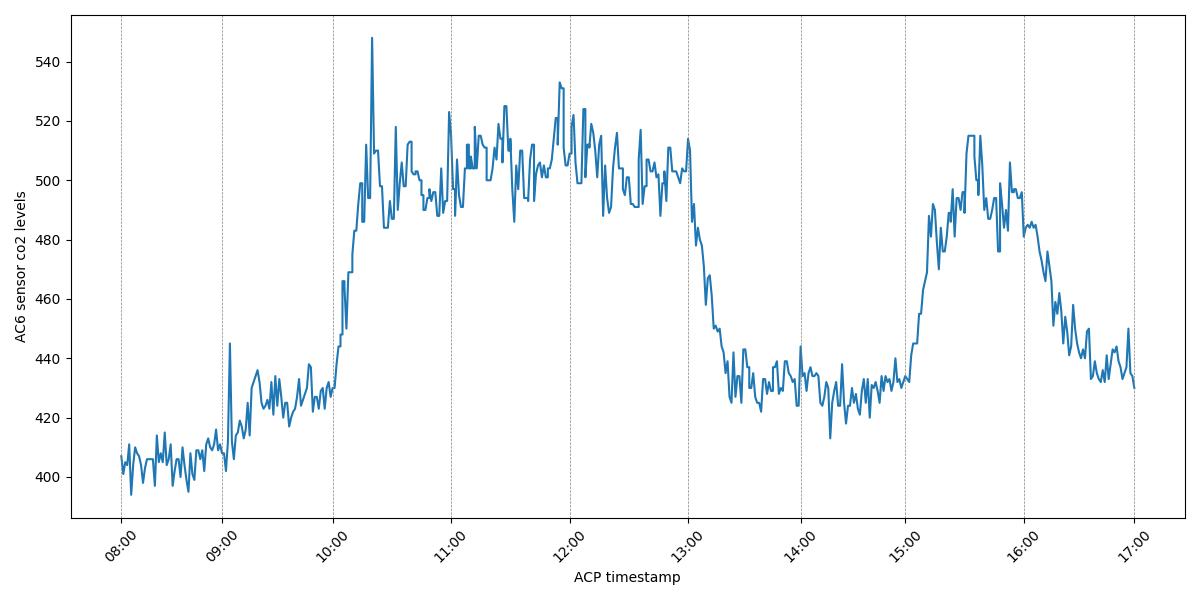
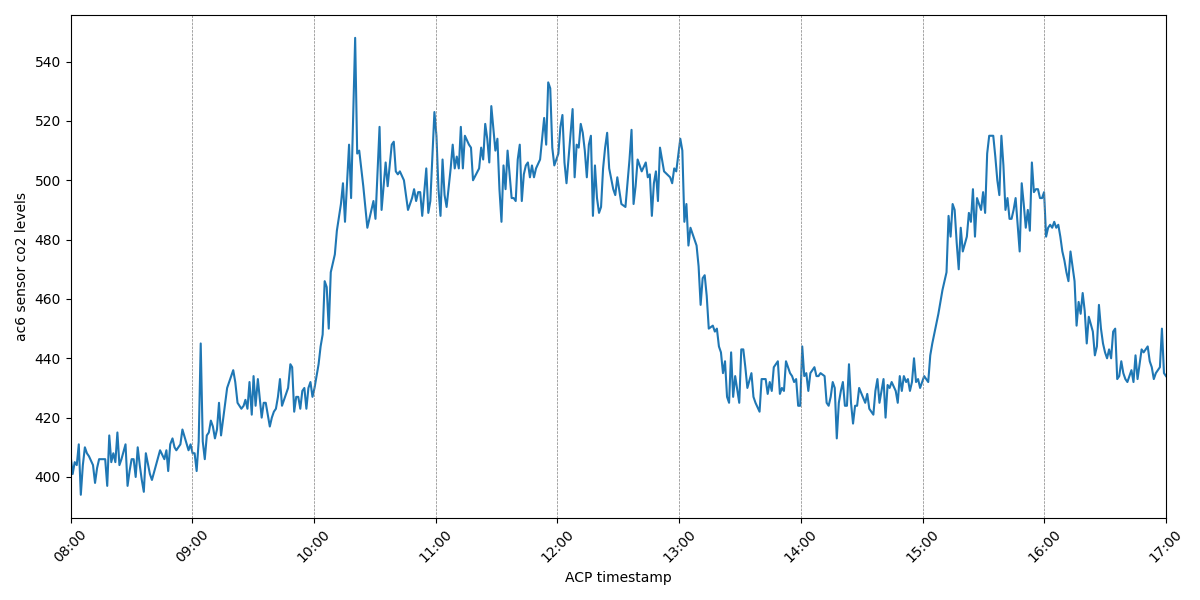
add late and seat events + plots

diff --git a/discoveryPhase/co2Plotter.py b/discoveryPhase/co2Plotter.py
@@ -4,41 +4,47 @@ import matplotlib.pyplot as plt
 import pandas as pd
 import numpy as np
 
+from faceEvent import getEvents
+
 def getXYAndLabels(sensor, day):
-    with open(f'jan2024SensorSample/elsys-co2-058{sensor}/01/elsys-co2-058{sensor}_2024-01-{day}.txt', 'r') as file:
+    with open(f'jan2024SensorSample/elsys-co2-{sensor}/01/elsys-co2-{sensor}_2024-01-{day}.txt', 'r') as file:
         ac6Data = [json.loads(dataLine) for dataLine in file]
     ac6DataFrame = pd.DataFrame(ac6Data)
-    payloads = np.array(ac6DataFrame['payload_cooked'])
-    missing_indecies = []
-    co2 = []
-    for i, payload in enumerate(payloads):
-        try:
-            co2.append(payload['co2'])
-        except KeyError:
-            if len(co2) > 0:
-                co2.append(co2[-1])
-            else:
-                co2.append(0)
-            missing_indecies.append(i)
-    co2 = np.array(co2)
+    ac6DataFrame['acp_ts'] = pd.to_numeric(ac6DataFrame['acp_ts'])
+    ac6DataFrameFiltered = ac6DataFrame[ac6DataFrame['payload_cooked'].apply(lambda x: 'co2' in x)]
+    ac6DataFrameFiltered.reset_index(drop=True, inplace=True)
+    ac6DataFrameTsBound = ac6DataFrameFiltered[(ac6DataFrameFiltered['acp_ts'] % 86400 >= 11*3600) & (ac6DataFrameFiltered['acp_ts'] % 86400 <= 12*3600)]
+    ac6DataFrameTsBound.reset_index(drop=True, inplace=True)
 
-    timeStamps = np.array(ac6DataFrame["acp_ts"])
-    hourMinuteStrings = np.array([datetime.fromtimestamp(float(ts)).strftime("%H:%M") for ts in timeStamps])
-    mask = (hourMinuteStrings >= "08:00") & (hourMinuteStrings <= "17:00")
-    boundedco2 = co2[mask]
-    boundedHourMinuteStrings = hourMinuteStrings[mask]
+    timestamps = np.array(pd.to_numeric(ac6DataFrameTsBound["acp_ts"]))
+    co2 = np.array([payload['co2'] for payload in ac6DataFrameTsBound['payload_cooked']])
+    labels = [f"11:{i*10:02}" for i in range(7)]
+    return  timestamps, co2, labels
 
-    labels = [f"{i:02}:00" for i in range(8, 18)]
-    return  boundedHourMinuteStrings, boundedco2, labels
-
-def plotData():
-    x, y, labels = getXYAndLabels('ac6', '24')
+def plotData(sensor, day, events = pd.DataFrame(), title = ''):
+    x, y, labels = getXYAndLabels(sensor, day)
     plt.figure(figsize=(12, 6))
     plt.plot(x, y)
-    plt.xticks(labels, rotation=45)
-    for label in labels:
-        plt.axvline(x=label, color='grey', linestyle='--', linewidth=0.5)
+    labelXValues = np.linspace(x[0], x[-1], 7)
+    plt.xticks(labelXValues, labels, rotation=45)
+    for labelx in labelXValues:
+        plt.axvline(x=labelx, color='grey', linestyle='--', linewidth=0.5)
+    for _, event in events.iterrows():
+        event_color = 'lime' if event['seatEvent'] == 'Appear' else 'red'
+        plt.axvline(x=event['acp_ts'], color=event_color, linestyle='--', label='late arrival', linewidth=1)
+
+    plt.xlim(x[0], x[-1])
     plt.xlabel('ACP timestamp')
-    plt.ylabel('AC6 sensor co2 levels')
+    plt.ylabel(f'{sensor} sensor co2 levels')
+    plt.title(title)
     plt.tight_layout()
-    plt.savefig('discoveryphase/plots/ac6-co2-24plot.png', format='png')
+    plt.savefig(f'discoveryphase/plots/{sensor}-co2-{day}11-12plot.png', format='png')
+
+def main():
+    events = pd.DataFrame(getEvents(1706094300, 1706097300, ['RE1', 'RE2', 'RF1', 'RF2', 'RD1', 'RD2']))
+    print(events)
+    title = 'co2 at ae7 with seatEvents from RE1, RE2, RF1, RF2, RD1, RD2 marked'
+    plotData('058b14', '24', events, title)
+
+if __name__ == '__main__':
+    main()

diff --git a/discoveryPhase/faceEvent.py b/discoveryPhase/faceEvent.py
@@ -1,0 +1,42 @@
+import json
+from enum import Enum
+import pandas as pd
+
+class seatEvent(Enum):
+    Appear = 'Appear'
+    Disappear = 'Disappear'
+
+def main():
+    print(getEvents(1706094300, 1706097300, ['MG4', 'MG5', 'MF4', 'MF5']))
+
+def getEvents(startTime: float, endTime: float, seats: list[str] = []):
+    '''
+        hardcoded date and time period
+
+        script which measures any change in seat occupancy given a selection of seats and time boundaries
+        gives timestamps for each event
+    '''
+    with open('node_22-28Jan/cerberus-node-lt1_2024-01-24.txt', 'r') as file:
+        nodeData = [json.loads(dataLine) for dataLine in file]
+    nodeDataFrame = pd.DataFrame(nodeData)
+    nodeDataFrame['acp_ts'] = pd.to_numeric(nodeDataFrame['acp_ts'])
+    lectureDF = nodeDataFrame[(nodeDataFrame['acp_ts'] <= endTime) & (nodeDataFrame['acp_ts'] >= startTime)]
+    current_seats = set()
+    prev_seats = set()
+    events = [] # list of dicts which contain 'acp_ts', 'seat' and 'seatEvent'
+
+    seat_set = set(seats)
+
+    for i, row in lectureDF.iterrows():
+        prev_seats = current_seats
+        current_seats = set(row['seats_occupied'])
+        appeared = (current_seats - prev_seats) & seat_set
+        disappeared = (prev_seats - current_seats) & seat_set
+        for app in appeared:
+            events.append({'acp_ts': row['acp_ts'], 'seat':app, 'seatEvent':seatEvent.Appear.value})
+        for dis in disappeared:
+            events.append({'acp_ts': row['acp_ts'], 'seat':dis, 'seatEvent':seatEvent.Disappear.value})
+    return events
+
+if __name__ == '__main__':
+    main()

diff --git a/discoveryPhase/latecomer.py b/discoveryPhase/latecomer.py
@@ -1,0 +1,23 @@
+import json
+import pandas as pd
+
+def main():
+    with open('node_22-28Jan/cerberus-node-lt1_2024-01-24.txt', 'r') as file:
+        nodeData = [json.loads(dataLine) for dataLine in file]
+    nodeDataFrame = pd.DataFrame(nodeData)
+    nodeDataFrame['acp_ts'] = pd.to_numeric(nodeDataFrame['acp_ts'])
+    lecture1DF = nodeDataFrame[(nodeDataFrame['acp_ts'] <= 1706097300) & (nodeDataFrame['acp_ts'] >= 1706094300)]
+    lecture1DF.reset_index(drop=True, inplace=True)
+    lateness = {}
+    order = []
+    for i in range(len(lecture1DF)):
+        current_ts = lecture1DF['acp_ts'][i]
+        for seat in lecture1DF['seats_occupied'][i]:
+            if seat not in lateness:
+                lateness[seat] =  current_ts - 1706094300
+                order.append(seat)
+    
+    for seat in order:
+        print(seat, lateness[seat])
+if __name__ == '__main__':
+    main()

diff --git a/structures/ConciseTimetable.py b/structures/ConciseTimetable.py
@@ -385,7 +385,8 @@ class ConciseTimetable():
             return "N/A"
 
 def main():
-    assert ConciseTimetable.getCourse(1739874600) == 'Further Human–Computer Interaction', 'wrong course'
+    assert ConciseTimetable.getCourse(1746437400) == 'Hoare Logic and Model Checking', 'fails for HL&MC'
+    assert ConciseTimetable.getCourse(1739874600) == 'Further Human–Computer Interaction', 'fails for FHCI'
     assert ConciseTimetable.getCourse(1739874600) != 'other', 'not returning correctly'
     assert ConciseTimetable.getCourse(1739910600) == 'N/A', 'Does not handle empty case'
 
